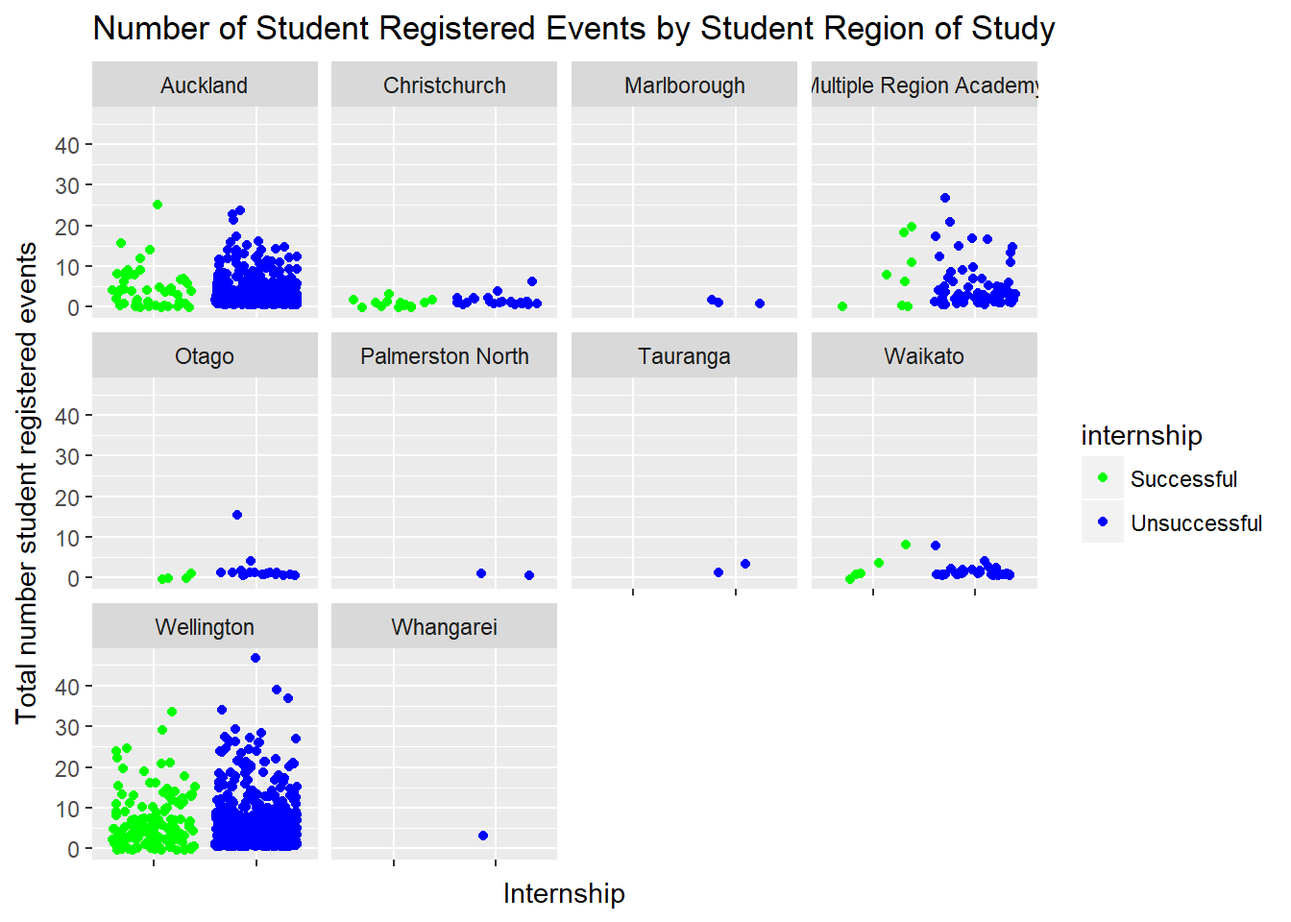
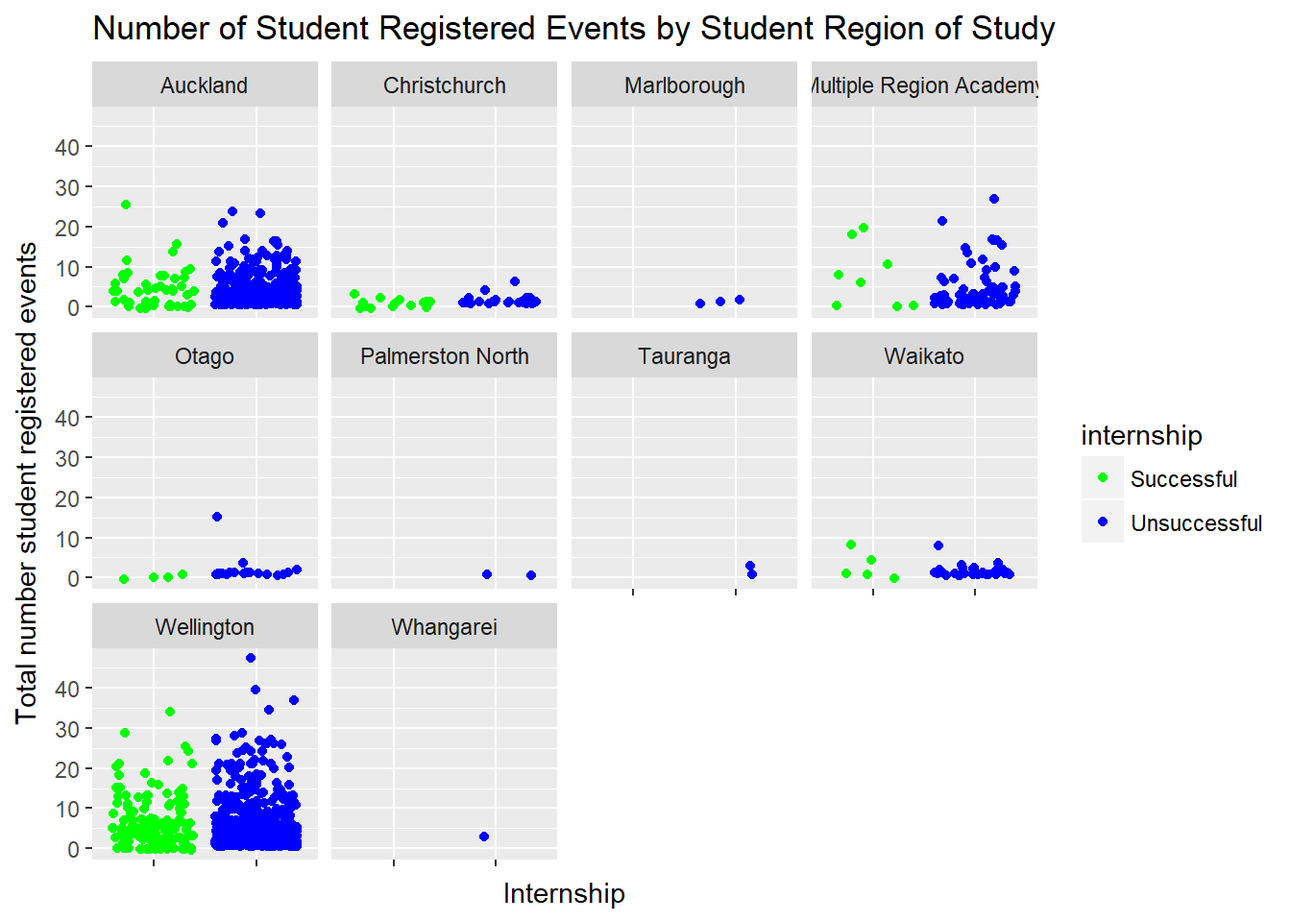
Update SoT post with code

diff --git a/portfolio/sot_dataviz/index.html b/portfolio/sot_dataviz/index.html
@@ -153,6 +153,10 @@ ga('send', 'pageview');
 <div id="section" class="section level3">
 <h3></h3>
 <hr />
+<pre class="r"><code>library(tidyverse)
+library(DataExplorer)
+library(skimr)
+library(networkD3)</code></pre>
 </div>
 </div>
 <div id="data" class="section level2">
@@ -168,6 +172,24 @@ ga('send', 'pageview');
 </li>
 <li>“Intern data Dec 2017.csv” includes student details and internship details</li>
 </ul>
+<pre class="r"><code># Import the &quot;2017 event detail report.csv&quot; 
+eventdetail &lt;- read_csv(&quot;https://raw.githubusercontent.com/R-LadiesAKL/sotdata/master/2017%20event%20detail%20report.csv&quot;)
+# Import the &quot;Event attendances data Dec 2017.csv&quot;
+event &lt;- read_csv(&quot;https://raw.githubusercontent.com/R-LadiesAKL/sotdata/master/Event%20attendances%20data%20Dec%202017.csv&quot;)
+# Import the intern data &quot;Intern data Dec 2017.csv&quot;
+intern &lt;- read_csv(&quot;https://raw.githubusercontent.com/R-LadiesAKL/sotdata/master/Intern%20data%20Dec%202017.csv&quot;)
+#  Only select the first 214 rows, the rest are N/A
+intern &lt;- intern[1:214,]
+# Import the &quot;Institution to region mapper.csv&quot;
+mapper &lt;- read_csv(&quot;https://raw.githubusercontent.com/R-LadiesAKL/sotdata/master/Institution%20to%20region%20mapper.csv&quot;)
+# Import the &quot;2017 interns per employer.csv&quot;
+internemployer &lt;- read_csv(&quot;https://raw.githubusercontent.com/R-LadiesAKL/sotdata/master/2017%20interns%20per%20employer.csv&quot;)</code></pre>
+<pre class="r"><code>#  We will use the make.names base R function to make syntactically valid names of the column variables for further analysis and output in R Markdown. For these names, it adds a &quot;.&quot; to the spaces in the names
+names(eventdetail) &lt;- make.names(names(eventdetail))
+#  Make Syntactically Valid Names of the eventdetail 
+names(event) &lt;- make.names(names(event))
+#  Make Syntactically Valid Names of the intern
+names(intern) &lt;- make.names(names(intern))</code></pre>
 <p><strong>Summarise the the data in numbers:</strong></p>
 <ul>
 <li><p>From the event attendances data, there are <strong>1381</strong> students from <strong>34</strong> institutions, studying <strong>886</strong> different qualifications, who express interest in the events.</p></li>
@@ -181,6 +203,11 @@ ga('send', 'pageview');
 <p>We will first clean the data.</p>
 <p><strong>Duplicates</strong></p>
 <p>From the summary statistics there appears to be a student who has two internships? Let’s view and remove the duplicate token.</p>
+<pre class="r"><code>#  Check which internship with the duplicated token ID
+intern %&gt;% 
+      filter(token==intern$token[duplicated(intern$token)]) %&gt;% 
+      kableExtra::kable() %&gt;%
+      kableExtra::kable_styling()</code></pre>
 <table class="table" style="margin-left: auto; margin-right: auto;">
 <thead>
 <tr>
@@ -301,15 +328,56 @@ year
 </tr>
 </tbody>
 </table>
+<pre class="r"><code># Remove the duplicate token by identifying the row number with the duplicate and then using dplyr&#39;s slice function
+intern &lt;- intern %&gt;% 
+      slice(-which(duplicated(intern$token)))</code></pre>
 <p>There is one event that also appears in the event detail called Health and Safety with no registered attendees which may be a duplicate of another Health and Safety event.</p>
 <p><strong>Add successful intern flag</strong></p>
 <p>Add a variable to the intern data to identify successful internship students after joining with the event data.</p>
+<pre class="r"><code># Add a variable to the intern data to identify successful internship students after merged with the event data
+intern &lt;- intern %&gt;% 
+      mutate(internship=&quot;Successful&quot;)</code></pre>
 <p><strong>Rename column variables</strong></p>
 <p>Let’s rename some of the column variables to be able to track which dataset set they came from.</p>
+<pre class="r"><code># Rename column variables
+intern &lt;- intern %&gt;% 
+      # Rename the intern Region to intern.region
+      rename_at(vars(&#39;Region&#39;), ~ &#39;Intern.region&#39;) %&gt;% 
+      # Rename the intern institution to intern.institution
+      rename_at(vars(&#39;Institution&#39;), ~ &#39;Intern.institution&#39;) %&gt;% 
+      # Rename the intern Year of study to Intern.year.of.study
+      rename_at(vars(&#39;Year.of.study&#39;), ~ &#39;Intern.year.of.study&#39;)
+event &lt;- event %&gt;% 
+       # Rename the Student token variable in event to token so that this is the same as the intern variable name.
+      rename_at(vars(&#39;Student.token&#39;), ~ &#39;token&#39;) %&gt;% 
+      # Rename the region institution to region.institution
+      rename_at(vars(&#39;Institution&#39;), ~ &#39;Event.institution&#39;) 
+eventdetail &lt;- eventdetail %&gt;% 
+       # Rename the eventdetail Name variable in event to Event.name 
+      rename_at(vars(&#39;Name&#39;), ~ &#39;Event.name&#39;) %&gt;% 
+       # Rename the eventdetail Name variable in event to Event.name 
+      rename_at(vars(&#39;Location&#39;), ~ &#39;Event.region&#39;)</code></pre>
 <p><strong>Mapper update</strong></p>
 <p>Add a missing institution,“Toi Ohomai Institute of Technology”, to the region-institution mapper.</p>
+<pre class="r"><code># Add a missing institution to the mapper
+mapper &lt;- rbind(mapper,c(&quot;Toi Ohomai Institute of Technology&quot;,&quot;Multiple&quot;))</code></pre>
 <p><strong>Join files</strong></p>
 <p>Next Join the intern and event files by the common identifier, the student ID, “token”.</p>
+<pre class="r"><code># Join the intern and event by the common token variable
+combine &lt;- full_join(intern,event,by=&quot;token&quot;)
+# Replace the internship NA&#39;s to no. This will include event attendance states including late withdrawals
+combine$internship &lt;- replace_na(combine$internship,&quot;Unsuccessful&quot;)
+# Since some students attend multiple events, let&#39;s create a flag for attended events
+combine &lt;- combine %&gt;% 
+      mutate(registered.for.events=ifelse(is.na(Event.region),&quot;no&quot;,&quot;yes&quot;))
+# Create a new student institution variable from the Event and intern institution variables
+combine &lt;- combine %&gt;% 
+      mutate(Institution=ifelse(is.na(Event.institution),Intern.institution, Event.institution))
+# Map instititution to the region using the mapper 
+combine &lt;- combine %&gt;% 
+      left_join(mapper,by=&quot;Institution&quot;) %&gt;% 
+      rename(Student.institution=Institution) %&gt;% 
+      rename(Student.region=Region)</code></pre>
 </div>
 <div id="success-factors" class="section level2">
 <h2>Success Factors</h2>
@@ -320,13 +388,64 @@ year
 <p>Then I tried the <a href="https://cran.r-project.org/web/packages/networkD3/index.html">networkD3</a> R package to create a D3 JavaScript Sankey diagram.</p>
 <p>I included a check that the total number of intern tokens in original file is same as sum in this summary after the join and also include a new “Student Institution” variable.</p>
 <p>See below the interactive Sankey diagram:</p>
+<pre class="r"><code># Create a summary of the counts of Event institutions by unique interns
+inst_intern_count &lt;- combine %&gt;%
+      distinct(Student.institution,internship,token) %&gt;%
+      group_by(Student.institution,internship) %&gt;%  
+      summarize(counts = n()) %&gt;%
+      ungroup() %&gt;%  
+      arrange(desc(counts))
+# Replace the Event NA&#39;s to Other
+inst_intern_count$Event.institution &lt;- replace_na(inst_intern_count$Student.institution,&quot;Other&quot;)
+# Since there is a large number of institutions, Group the institutions with count less than 10 as Other
+l &lt;- length(inst_intern_count$counts)
+inst_intern_count$Student.institution[15:l] &lt;- &quot;Other&quot;
+# Check that the total intern tokens in original file is same as sum in this summary
+length(unique(intern$token))==
+inst_intern_count %&gt;% filter(internship==&quot;Successful&quot;) %&gt;% select(counts) %&gt;% sum()</code></pre>
 <p>[1] TRUE</p>
+<pre class="r"><code># Create the links and nodes for the Sankey and force network diagrams
+name_vec &lt;- c(unique(inst_intern_count$Student.institution), unique(inst_intern_count$internship))
+name_vec &lt;- name_vec[!is.na(name_vec)]
+lengthid &lt;- length(name_vec)
+nodes &lt;- data.frame(name = name_vec,id=0:(lengthid-1),stringsAsFactors = FALSE)
+links &lt;- inst_intern_count %&gt;%
+  left_join(nodes, by = c(&#39;Student.institution&#39; = &#39;name&#39;)) %&gt;%
+  rename(origin_id = id) %&gt;%
+  left_join(nodes, by = c(&#39;internship&#39; = &#39;name&#39;)) %&gt;%
+  rename(dest_id = id) %&gt;% 
+      data.frame()</code></pre>
+<pre class="r"><code>sankeyNetwork(Links = links, Nodes = nodes, Source = &#39;origin_id&#39;, Target = &#39;dest_id&#39;, Value = &#39;counts&#39;, NodeID = &#39;name&#39;, 
+              # Format
+              fontSize = 14,
+              nodeWidth = 20)   </code></pre>
 <div id="htmlwidget-1" style="width:672px;height:480px;" class="sankeyNetwork html-widget"></div>
 <script type="application/json" data-for="htmlwidget-1">{"x":{"links":{"source":[0,1,0,2,3,4,5,1,6,7,8,9,10,11,12,12,12,12,12,12,12,12,12,12,12,12,12,12,12,12,12,12,12,12,12,12,12,12,12,12,12,12,12,12,12,12,12,12,12,12,12,12],"target":[13,13,14,13,13,13,13,14,13,13,13,13,13,13,13,14,13,14,13,14,13,13,13,13,14,14,14,14,13,13,14,14,13,13,14,13,13,13,13,14,13,13,14,13,14,13,14,13,13,13,14,14],"value":[461,312,108,68,58,50,48,39,25,25,24,22,17,16,16,15,15,14,7,6,5,5,5,5,4,4,4,4,3,3,3,3,3,2,2,2,2,2,2,2,2,1,1,1,1,1,1,1,1,1,1,1]},"nodes":{"name":["Victoria University of Wellington","Auckland University","Auckland University of Technology","Whitireia New Zealand","Wellington Institute of Technology (Weltec)","Massey University (Wellington)","Unitec Institute of Technology","Yoobee School of Design","University of Canterbury","Enspiral Dev Academy","University of Otago","Computer Power Plus","Other","Unsuccessful","Successful"],"group":["Victoria University of Wellington","Auckland University","Auckland University of Technology","Whitireia New Zealand","Wellington Institute of Technology (Weltec)","Massey University (Wellington)","Unitec Institute of Technology","Yoobee School of Design","University of Canterbury","Enspiral Dev Academy","University of Otago","Computer Power Plus","Other","Unsuccessful","Successful"]},"options":{"NodeID":"name","NodeGroup":"name","LinkGroup":null,"colourScale":"d3.scaleOrdinal(d3.schemeCategory20);","fontSize":14,"fontFamily":null,"nodeWidth":20,"nodePadding":10,"units":"","margin":{"top":null,"right":null,"bottom":null,"left":null},"iterations":32,"sinksRight":true}},"evals":[],"jsHooks":[]}</script>
+<pre class="r"><code># Use this to save the plot as html
+# saveNetwork(file = &#39;sankey.html&#39;)</code></pre>
 <p>Let’s view this with an interactive and zoom-able force directed network graph using the forceNetwork function from the same <a href="https://cran.r-project.org/web/packages/networkD3/index.html">networkD3</a> R package.</p>
+<pre class="r"><code># Create and plot the forcenetwork with the links and nodes
+forceNetwork(Links = links, Nodes = nodes, Source = &#39;origin_id&#39;, Target = &#39;dest_id&#39;, NodeID = &#39;name&#39;, Group = &#39;id&#39;, 
+             # Customise the edges
+             Value = &#39;counts&#39;, 
+             # Layout
+             #height = 500, 
+             #width = 500, 
+             zoom = TRUE,
+             # Customise the links
+             linkWidth = networkD3::JS(&quot;function(d) { return d.value/50; }&quot;),
+             charge=-1500,
+             # Format
+             fontFamily = &quot;serif&quot;,
+             opacity = 0.95, 
+             opacityNoHover = 0.5,
+             fontSize = 18) %&gt;% 
+      htmlwidgets::prependContent(htmltools::tags$h3(&quot;Institution Links to Successful and Unsuccessful Internships&quot;))  </code></pre>
 <h3>Institution Links to Successful and Unsuccessful Internships</h3>
 <div id="htmlwidget-2" style="width:672px;height:480px;" class="forceNetwork html-widget"></div>
 <script type="application/json" data-for="htmlwidget-2">{"x":{"links":{"source":[0,1,0,2,3,4,5,1,6,7,8,9,10,11,12,12,12,12,12,12,12,12,12,12,12,12,12,12,12,12,12,12,12,12,12,12,12,12,12,12,12,12,12,12,12,12,12,12,12,12,12,12],"target":[13,13,14,13,13,13,13,14,13,13,13,13,13,13,13,14,13,14,13,14,13,13,13,13,14,14,14,14,13,13,14,14,13,13,14,13,13,13,13,14,13,13,14,13,14,13,14,13,13,13,14,14],"value":[461,312,108,68,58,50,48,39,25,25,24,22,17,16,16,15,15,14,7,6,5,5,5,5,4,4,4,4,3,3,3,3,3,2,2,2,2,2,2,2,2,1,1,1,1,1,1,1,1,1,1,1],"colour":["#666","#666","#666","#666","#666","#666","#666","#666","#666","#666","#666","#666","#666","#666","#666","#666","#666","#666","#666","#666","#666","#666","#666","#666","#666","#666","#666","#666","#666","#666","#666","#666","#666","#666","#666","#666","#666","#666","#666","#666","#666","#666","#666","#666","#666","#666","#666","#666","#666","#666","#666","#666"]},"nodes":{"name":["Victoria University of Wellington","Auckland University","Auckland University of Technology","Whitireia New Zealand","Wellington Institute of Technology (Weltec)","Massey University (Wellington)","Unitec Institute of Technology","Yoobee School of Design","University of Canterbury","Enspiral Dev Academy","University of Otago","Computer Power Plus","Other","Unsuccessful","Successful"],"group":[0,1,2,3,4,5,6,7,8,9,10,11,12,13,14]},"options":{"NodeID":"name","Group":"id","colourScale":"d3.scaleOrdinal(d3.schemeCategory20);","fontSize":18,"fontFamily":"serif","clickTextSize":45,"linkDistance":50,"linkWidth":"function(d) { return d.value/50; }","charge":-1500,"opacity":0.95,"zoom":true,"legend":false,"arrows":false,"nodesize":false,"radiusCalculation":" Math.sqrt(d.nodesize)+6","bounded":false,"opacityNoHover":0.5,"clickAction":null}},"evals":[],"jsHooks":[]}</script>
+<pre class="r"><code># Use this to save the plot as html
+# saveNetwork(file =  &#39;forcediag.html&#39;)</code></pre>
 <p>The two main Institution feeders appear to be Victoria University of Wellington and Auckland University, the former resulting in half of internships.</p>
 </div>
 <div id="specific-events-resulting-in-internships" class="section level2">
@@ -337,32 +456,119 @@ year
 <p><strong>Event Counts by Student Token</strong></p>
 <p>In order to arrange the data such that there is one token id by row, to summarise this one to many relationship, I have summarised the event counts as a wide data set, with column variables by region. This dataframe also has the internship variable as “Successful” or “Unsuccessful”. We can then look at whether total event attendance is a factor.</p>
 <p>After creating the new dataframe, check that there are the same number of successful interns in this new dataset as the original intern data.</p>
+<pre class="r"><code># Create a new summary dataframe of the event counts by student.
+eventcountbystudent  &lt;- combine %&gt;%     
+      select(token,internship,registered.for.events,Event.region,Student.region) %&gt;% 
+      group_by(token,internship,registered.for.events,Event.region,Student.region) %&gt;% 
+      mutate(event.count=n()) %&gt;% 
+      distinct()  %&gt;% 
+      ungroup()
+# Now create a wide dataset with the spread function
+eventcountbystudent_wide &lt;- eventcountbystudent %&gt;% 
+      spread(Event.region,event.count) %&gt;% 
+      rename(DirectApp=&#39;&lt;NA&gt;&#39;)  %&gt;% 
+      # Replace the NAs with 0 for this plot
+      mutate_at(vars(Auckland,Wellington,Christchurch,Dunedin,Hamilton,DirectApp), funs(replace(., is.na(.), 0))) %&gt;% 
+      # Add a total events variable
+      mutate(TotEvents = Auckland+Wellington+Christchurch+Dunedin+Hamilton)
+# Check that there are the same number of successful interns as the original intern data
+table(eventcountbystudent_wide$internship)[1]==length(unique(intern$token))</code></pre>
 <pre><code>## Successful 
 ##       TRUE</code></pre>
 <p><strong>Total registered events by student token</strong></p>
 <p>Of the <strong>213</strong> successful interns, <strong>43</strong> applied directly and did not attend any events. Let’s first take a look the balance who registered for events. The total event registration by internship success is plotted as a violin plot which is a mirrored density plot. A boxplot is layered on top to show the quantiles. We use registration as in indication of interest in interships, as actual attendance may be dependent on other external factors.</p>
+<pre class="r"><code># plot violin plot with boxploit layer
+eventcountbystudent_wide  %&gt;% 
+      ggplot() +
+      geom_violin(aes(internship,TotEvents),fill=&quot;purple&quot;) +
+      geom_boxplot(aes(internship,TotEvents),alpha=0.3) +
+      theme_bw() +
+      ggtitle(&quot;Distribution of Registered Events Count and Internship&quot;) +
+      xlab(&quot;Internship&quot;) +
+      ylab(&quot;Count of registered events (All Regions)&quot;)</code></pre>
 <p><img src="/portfolio/SoT_dataviz_files/figure-html/violin%20plot-1.png" width="672" /></p>
 <p>Overall, it appears from the quantile box that successful interns registered to attend more events. However there are some outliers of unsuccessful students who registered for a very large number events, the maximum number is <strong>47</strong> by one student. The greater spread at the bottom of the unsuccessful students indicates more unsuccessful students registered for fewer events than the successful interns.</p>
 <p><strong>Registration count by student region</strong></p>
 <p>Next we will break down and plot the total registered events by the region in which the student studies.</p>
 <p>This plot uses a jitter effect to add random variation to disperse the plotted points.</p>
+<pre class="r"><code># Rename the Multiple Student region to Multiple region Academy
+eventcountbystudent_wide    %&gt;%    
+# Replace the NAs with 0 for this plot
+      mutate_at(vars(Auckland,Wellington,Christchurch,Dunedin,Hamilton,DirectApp), funs(replace(., is.na(.), 0))) %&gt;% 
+      # Add a total events variable
+      mutate(TotEvents = Auckland+Wellington+Christchurch+Dunedin+Hamilton) %&gt;% 
+      mutate_at(vars(Student.region),funs(replace(.,.== &quot;Multiple&quot;,&quot;Multiple Region Academy&quot;))) %&gt;%  
+      ggplot() +
+      geom_jitter(aes(internship,TotEvents,colour=internship))+
+      xlab(&quot;Internship&quot;)+
+      ylab(&quot;Total number student registered events&quot;)+
+      ggtitle(&quot;Number of Student Registered Events by Student Region of Study&quot;) +
+      theme(axis.text.x=element_blank()) +
+      scale_color_manual(values=c(&quot;green&quot;, &quot;blue&quot;))+
+      facet_wrap(~Student.region)      </code></pre>
 <p><img src="/portfolio/SoT_dataviz_files/figure-html/count%20by%20region-1.png" width="672" /></p>
 <p>Students from outside the major centres are very low in numbers in registering and relatively unsuccessful in interships.</p>
 <p><strong>Decision Tree</strong></p>
 <p>Instead of trying to visualise all the events, we can use a model to visualise as a decision tree what possible combination of events successful interns attended in 2017. We will use the <a href="https://cran.r-project.org/web/packages/rpart/index.html">rpart</a> R package to create a classification model and the <a href="https://cran.r-project.org/web/packages/rattle/index.html">rattle</a> R package which has a nice function, fancyRpartPlot, to plot the tree below.</p>
 <p>This is a very simple model which is not intended as a prediction model with measures of accuracy. However the reshaped data with events classified with 0 or 1, which is also called one hot encoding, could be leveraged to build predictive models.</p>
+<pre class="r"><code># Create a new summary dataframe of the event names by student.
+eventnamebystudent_wide  &lt;- combine %&gt;%     
+      select(token,internship,Student.region,Event.name) %&gt;% 
+      mutate(count=1) %&gt;% 
+      distinct() %&gt;% 
+      spread(Event.name,count)  %&gt;% 
+      # Replace the NAs with 0 for this plot
+      mutate_if(is.numeric, funs(replace(., is.na(.), 0)))
+# Convert the internship values with 0 and 1 for the model
+eventnamebystudent_wide&lt;- eventnamebystudent_wide %&gt;% 
+      mutate_at(vars(internship),funs(replace(.,.== &quot;Successful&quot;,1))) %&gt;% 
+      mutate_at(vars(internship),funs(replace(.,.== &quot;Unsuccessful&quot;,0))) %&gt;% 
+# Rename the NA variable which are the Students who did not attend any events
+      rename(NoEvents=&#39;&lt;NA&gt;&#39;)
+eventnamebystudent_wide$Student.region &lt;- as.factor(eventnamebystudent_wide$Student.region )
+eventnamebystudent_wide$internship &lt;- as.factor(eventnamebystudent_wide$internship)
+#http://blog.revolutionanalytics.com/2013/06/plotting-classification-and-regression-trees-with-plotrpart.html
+model &lt;- rpart::rpart(internship~.,data=eventnamebystudent_wide[,-c(1,3)], cp=0.001 ) # default cp is 0.01, decresing this value creates a deeper tree
+rattle::fancyRpartPlot(model, sub = &quot;Decision tree of events that result in successful (green) 2017 internships&quot;,palettes=c(&quot;Greys&quot;, &quot;Greens&quot;))</code></pre>
 <p><img src="/portfolio/SoT_dataviz_files/figure-html/rpart-1.png" width="672" /></p>
 <p>From this tree we can see the <strong>43</strong> successful interns who applied directly as a percentage of the total pool of applicants <strong>1424</strong> or <strong>0.03</strong> on the far right green branch.</p>
 <p>The remaining branches relate to <strong>170</strong> students who registered for events and their success in green. Note only the top branches are shown.</p>
 <p>Now compare the tree to the tree using the <a href="https://cran.r-project.org/web/packages/visNetwork/index.html">visNetwork</a> R package visTree function. This creates an interactive tree and produces the numbers in each node.</p>
+<pre class="r"><code># http://www.sthda.com/english/articles/33-social-network-analysis/137-interactive-network-visualization-using-r/
+visNetwork::visTree(model, main = &quot;Decision tree of events that result in successful (green) 2017 internships&quot;,
+        width = &quot;80%&quot;,  height = &quot;400px&quot;)</code></pre>
 <div id="htmlwidget-3" style="width:80%;height:400px;" class="visNetwork html-widget"></div>
 <script type="application/json" data-for="htmlwidget-3">{"x":{"nodes":{"id":[1,2,4,8,9,18,19,38,39,5,10,20,40,41,82,83,21,11,3],"label":["NoEvents","SoT&Biz Guide to Offers","Meet & Greet - WELLINGTON","0","Guide to 2017 Offers","0","Meet & Greet ProTips - Alumni Panel","0","1","CV Clinics 1:1 feedback","Inside Guide to Summer of Tech","JavaScript Masterclass","0","Coding for Android with Kotlin - let’s build a simple app in 90 minutes","0","1","1","1","1"],"level":[1,2,3,4,4,5,5,6,6,3,4,5,6,6,7,7,5,4,2],"color":["#F1B8C2","#EABDAC","#DAC49C","#7D91B6","#C3CB9A","#7D91B6","#A9D1A5","#7D91B6","#B9828C","#92D4B9","#8AD3D0","#98CFE2","#7D91B6","#B4C7ED","#7D91B6","#B9828C","#B9828C","#B9828C","#B9828C"],"value":[1424,1381,1313,1037,276,256,20,12,8,68,60,53,12,41,33,8,7,8,43],"shape":["dot","dot","dot","square","dot","square","dot","square","square","dot","dot","dot","square","dot","square","square","square","square","square"],"title":["<div style=\"text-align:center;\">N% : <b>100%<\/b> (1424)<br>Complexity : <b>0.202<\/b><br><hr> 0 : <b>85%<\/b> (1211)<br>1 : <b>15%<\/b> (213)<\/div>","<div style=\"text-align:center;\">N% : <b>97%<\/b> (1381)<br>Complexity : <b>0.014<\/b><br><hr> 0 : <b>87.7%<\/b> (1211)<br>1 : <b>12.3%<\/b> (170)<hr class=\"rPartvisNetwork\"><div class=\"rPartvisNetworkTooltipShowhim\" style=\"color:blue;\">\n          <U>RULES<\/U><div class=\"rPartvisNetworkTooltipShowme\" style=\"color:black;\"><b> NoEvents <\/b> < 0.5<\/div><\/div><\/div>","<div style=\"text-align:center;\">N% : <b>92.2%<\/b> (1313)<br>Complexity : <b>0.003<\/b><br><hr> 0 : <b>89.6%<\/b> (1177)<br>1 : <b>10.4%<\/b> (136)<hr class=\"rPartvisNetwork\"><div class=\"rPartvisNetworkTooltipShowhim\" style=\"color:blue;\">\n          <U>RULES<\/U><div class=\"rPartvisNetworkTooltipShowme\" style=\"color:black;\"><b> NoEvents <\/b> < 0.5<br><b> SoT&Biz Guide to Offers <\/b> < 0.5<\/div><\/div><\/div>","<div style=\"text-align:center;\">N% : <b>72.8%<\/b> (1037)<br>Complexity : <b>0<\/b><br><hr> 0 : <b>91.9%<\/b> (953)<br>1 : <b>8.1%<\/b> (84)<hr class=\"rPartvisNetwork\"><div class=\"rPartvisNetworkTooltipShowhim\" style=\"color:blue;\">\n          <U>RULES<\/U><div class=\"rPartvisNetworkTooltipShowme\" style=\"color:black;\"><b> NoEvents <\/b> < 0.5<br><b> SoT&Biz Guide to Offers <\/b> < 0.5<br><b> Meet & Greet - WELLINGTON <\/b> < 0.5<\/div><\/div><\/div>","<div style=\"text-align:center;\">N% : <b>19.4%<\/b> (276)<br>Complexity : <b>0.003<\/b><br><hr> 0 : <b>81.2%<\/b> (224)<br>1 : <b>18.8%<\/b> (52)<hr class=\"rPartvisNetwork\"><div class=\"rPartvisNetworkTooltipShowhim\" style=\"color:blue;\">\n          <U>RULES<\/U><div class=\"rPartvisNetworkTooltipShowme\" style=\"color:black;\"><b> NoEvents <\/b> < 0.5<br><b> SoT&Biz Guide to Offers <\/b> < 0.5<br><b> Meet & Greet - WELLINGTON <\/b> >= 0.5<\/div><\/div><\/div>","<div style=\"text-align:center;\">N% : <b>18%<\/b> (256)<br>Complexity : <b>0<\/b><br><hr> 0 : <b>83.2%<\/b> (213)<br>1 : <b>16.8%<\/b> (43)<hr class=\"rPartvisNetwork\"><div class=\"rPartvisNetworkTooltipShowhim\" style=\"color:blue;\">\n          <U>RULES<\/U><div class=\"rPartvisNetworkTooltipShowme\" style=\"color:black;\"><b> NoEvents <\/b> < 0.5<br><b> SoT&Biz Guide to Offers <\/b> < 0.5<br><b> Meet & Greet - WELLINGTON <\/b> >= 0.5<br><b> Guide to 2017 Offers <\/b> < 0.5<\/div><\/div><\/div>","<div style=\"text-align:center;\">N% : <b>1.4%<\/b> (20)<br>Complexity : <b>0.003<\/b><br><hr> 0 : <b>55%<\/b> (11)<br>1 : <b>45%<\/b> (9)<hr class=\"rPartvisNetwork\"><div class=\"rPartvisNetworkTooltipShowhim\" style=\"color:blue;\">\n          <U>RULES<\/U><div class=\"rPartvisNetworkTooltipShowme\" style=\"color:black;\"><b> NoEvents <\/b> < 0.5<br><b> SoT&Biz Guide to Offers <\/b> < 0.5<br><b> Meet & Greet - WELLINGTON <\/b> >= 0.5<br><b> Guide to 2017 Offers <\/b> >= 0.5<\/div><\/div><\/div>","<div style=\"text-align:center;\">N% : <b>0.8%<\/b> (12)<br>Complexity : <b>0.001<\/b><br><hr> 0 : <b>66.7%<\/b> (8)<br>1 : <b>33.3%<\/b> (4)<hr class=\"rPartvisNetwork\"><div class=\"rPartvisNetworkTooltipShowhim\" style=\"color:blue;\">\n          <U>RULES<\/U><div class=\"rPartvisNetworkTooltipShowme\" style=\"color:black;\"><b> NoEvents <\/b> < 0.5<br><b> SoT&Biz Guide to Offers <\/b> < 0.5<br><b> Meet & Greet - WELLINGTON <\/b> >= 0.5<br><b> Guide to 2017 Offers <\/b> >= 0.5<br><b> Meet & Greet ProTips - Alumni Panel <\/b> >= 0.5<\/div><\/div><\/div>","<div style=\"text-align:center;\">N% : <b>0.6%<\/b> (8)<br>Complexity : <b>0.001<\/b><br><hr> 0 : <b>37.5%<\/b> (3)<br>1 : <b>62.5%<\/b> (5)<hr class=\"rPartvisNetwork\"><div class=\"rPartvisNetworkTooltipShowhim\" style=\"color:blue;\">\n          <U>RULES<\/U><div class=\"rPartvisNetworkTooltipShowme\" style=\"color:black;\"><b> NoEvents <\/b> < 0.5<br><b> SoT&Biz Guide to Offers <\/b> < 0.5<br><b> Meet & Greet - WELLINGTON <\/b> >= 0.5<br><b> Guide to 2017 Offers <\/b> >= 0.5<br><b> Meet & Greet ProTips - Alumni Panel <\/b> < 0.5<\/div><\/div><\/div>","<div style=\"text-align:center;\">N% : <b>4.8%<\/b> (68)<br>Complexity : <b>0.014<\/b><br><hr> 0 : <b>50%<\/b> (34)<br>1 : <b>50%<\/b> (34)<hr class=\"rPartvisNetwork\"><div class=\"rPartvisNetworkTooltipShowhim\" style=\"color:blue;\">\n          <U>RULES<\/U><div class=\"rPartvisNetworkTooltipShowme\" style=\"color:black;\"><b> NoEvents <\/b> < 0.5<br><b> SoT&Biz Guide to Offers <\/b> >= 0.5<\/div><\/div><\/div>","<div style=\"text-align:center;\">N% : <b>4.2%<\/b> (60)<br>Complexity : <b>0.014<\/b><br><hr> 0 : <b>55%<\/b> (33)<br>1 : <b>45%<\/b> (27)<hr class=\"rPartvisNetwork\"><div class=\"rPartvisNetworkTooltipShowhim\" style=\"color:blue;\">\n          <U>RULES<\/U><div class=\"rPartvisNetworkTooltipShowme\" style=\"color:black;\"><b> NoEvents <\/b> < 0.5<br><b> SoT&Biz Guide to Offers <\/b> >= 0.5<br><b> CV Clinics 1:1 feedback <\/b> < 0.5<\/div><\/div><\/div>","<div style=\"text-align:center;\">N% : <b>3.7%<\/b> (53)<br>Complexity : <b>0.009<\/b><br><hr> 0 : <b>58.5%<\/b> (31)<br>1 : <b>41.5%<\/b> (22)<hr class=\"rPartvisNetwork\"><div class=\"rPartvisNetworkTooltipShowhim\" style=\"color:blue;\">\n          <U>RULES<\/U><div class=\"rPartvisNetworkTooltipShowme\" style=\"color:black;\"><b> NoEvents <\/b> < 0.5<br><b> SoT&Biz Guide to Offers <\/b> >= 0.5<br><b> CV Clinics 1:1 feedback <\/b> < 0.5<br><b> Inside Guide to Summer of Tech <\/b> < 0.5<\/div><\/div><\/div>","<div style=\"text-align:center;\">N% : <b>0.8%<\/b> (12)<br>Complexity : <b>0.001<\/b><br><hr> 0 : <b>83.3%<\/b> (10)<br>1 : <b>16.7%<\/b> (2)<hr class=\"rPartvisNetwork\"><div class=\"rPartvisNetworkTooltipShowhim\" style=\"color:blue;\">\n          <U>RULES<\/U><div class=\"rPartvisNetworkTooltipShowme\" style=\"color:black;\"><b> NoEvents <\/b> < 0.5<br><b> SoT&Biz Guide to Offers <\/b> >= 0.5<br><b> CV Clinics 1:1 feedback <\/b> < 0.5<br><b> Inside Guide to Summer of Tech <\/b> < 0.5<br><b> JavaScript Masterclass <\/b> >= 0.5<\/div><\/div><\/div>","<div style=\"text-align:center;\">N% : <b>2.9%<\/b> (41)<br>Complexity : <b>0.009<\/b><br><hr> 0 : <b>51.2%<\/b> (21)<br>1 : <b>48.8%<\/b> (20)<hr class=\"rPartvisNetwork\"><div class=\"rPartvisNetworkTooltipShowhim\" style=\"color:blue;\">\n          <U>RULES<\/U><div class=\"rPartvisNetworkTooltipShowme\" style=\"color:black;\"><b> NoEvents <\/b> < 0.5<br><b> SoT&Biz Guide to Offers <\/b> >= 0.5<br><b> CV Clinics 1:1 feedback <\/b> < 0.5<br><b> Inside Guide to Summer of Tech <\/b> < 0.5<br><b> JavaScript Masterclass <\/b> < 0.5<\/div><\/div><\/div>","<div style=\"text-align:center;\">N% : <b>2.3%<\/b> (33)<br>Complexity : <b>0<\/b><br><hr> 0 : <b>57.6%<\/b> (19)<br>1 : <b>42.4%<\/b> (14)<hr class=\"rPartvisNetwork\"><div class=\"rPartvisNetworkTooltipShowhim\" style=\"color:blue;\">\n          <U>RULES<\/U><div class=\"rPartvisNetworkTooltipShowme\" style=\"color:black;\"><b> NoEvents <\/b> < 0.5<br><b> SoT&Biz Guide to Offers <\/b> >= 0.5<br><b> CV Clinics 1:1 feedback <\/b> < 0.5<br><b> Inside Guide to Summer of Tech <\/b> < 0.5<br><b> JavaScript Masterclass <\/b> < 0.5<br><b> Coding for Android with Kotlin - let’s build a simple app in 90 minutes <\/b> < 0.5<\/div><\/div><\/div>","<div style=\"text-align:center;\">N% : <b>0.6%<\/b> (8)<br>Complexity : <b>0.001<\/b><br><hr> 0 : <b>25%<\/b> (2)<br>1 : <b>75%<\/b> (6)<hr class=\"rPartvisNetwork\"><div class=\"rPartvisNetworkTooltipShowhim\" style=\"color:blue;\">\n          <U>RULES<\/U><div class=\"rPartvisNetworkTooltipShowme\" style=\"color:black;\"><b> NoEvents <\/b> < 0.5<br><b> SoT&Biz Guide to Offers <\/b> >= 0.5<br><b> CV Clinics 1:1 feedback <\/b> < 0.5<br><b> Inside Guide to Summer of Tech <\/b> < 0.5<br><b> JavaScript Masterclass <\/b> < 0.5<br><b> Coding for Android with Kotlin - let’s build a simple app in 90 minutes <\/b> >= 0.5<\/div><\/div><\/div>","<div style=\"text-align:center;\">N% : <b>0.5%<\/b> (7)<br>Complexity : <b>0.001<\/b><br><hr> 0 : <b>28.6%<\/b> (2)<br>1 : <b>71.4%<\/b> (5)<hr class=\"rPartvisNetwork\"><div class=\"rPartvisNetworkTooltipShowhim\" style=\"color:blue;\">\n          <U>RULES<\/U><div class=\"rPartvisNetworkTooltipShowme\" style=\"color:black;\"><b> NoEvents <\/b> < 0.5<br><b> SoT&Biz Guide to Offers <\/b> >= 0.5<br><b> CV Clinics 1:1 feedback <\/b> < 0.5<br><b> Inside Guide to Summer of Tech <\/b> >= 0.5<\/div><\/div><\/div>","<div style=\"text-align:center;\">N% : <b>0.6%<\/b> (8)<br>Complexity : <b>0.001<\/b><br><hr> 0 : <b>12.5%<\/b> (1)<br>1 : <b>87.5%<\/b> (7)<hr class=\"rPartvisNetwork\"><div class=\"rPartvisNetworkTooltipShowhim\" style=\"color:blue;\">\n          <U>RULES<\/U><div class=\"rPartvisNetworkTooltipShowme\" style=\"color:black;\"><b> NoEvents <\/b> < 0.5<br><b> SoT&Biz Guide to Offers <\/b> >= 0.5<br><b> CV Clinics 1:1 feedback <\/b> >= 0.5<\/div><\/div><\/div>","<div style=\"text-align:center;\">N% : <b>3%<\/b> (43)<br>Complexity : <b>0.001<\/b><br><hr> 0 : <b>0%<\/b> (0)<br>1 : <b>100%<\/b> (43)<hr class=\"rPartvisNetwork\"><div class=\"rPartvisNetworkTooltipShowhim\" style=\"color:blue;\">\n          <U>RULES<\/U><div class=\"rPartvisNetworkTooltipShowme\" style=\"color:black;\"><b> NoEvents <\/b> >= 0.5<\/div><\/div><\/div>"],"fixed":[true,true,true,true,true,true,true,true,true,true,true,true,true,true,true,true,true,true,true],"colorClust":["#7D91B6","#7D91B6","#7D91B6","#7D91B6","#7D91B6","#7D91B6","#7D91B6","#7D91B6","#B9828C","#7D91B6","#7D91B6","#7D91B6","#7D91B6","#7D91B6","#7D91B6","#B9828C","#B9828C","#B9828C","#B9828C"],"labelClust":["0","0","0","0","0","0","0","0","1","0","0","0","0","0","0","1","1","1","1"],"Leaf":[0,0,0,1,0,1,0,1,1,0,0,0,1,0,1,1,1,1,1],"font.size":[16,16,16,16,16,16,16,16,16,16,16,16,16,16,16,16,16,16,16],"scaling.min":[22.5,22.5,22.5,22.5,22.5,22.5,22.5,22.5,22.5,22.5,22.5,22.5,22.5,22.5,22.5,22.5,22.5,22.5,22.5],"scaling.max":[22.5,22.5,22.5,22.5,22.5,22.5,22.5,22.5,22.5,22.5,22.5,22.5,22.5,22.5,22.5,22.5,22.5,22.5,22.5]},"edges":{"id":["edge1","edge2","edge3","edge4","edge5","edge6","edge7","edge8","edge9","edge10","edge11","edge12","edge13","edge14","edge15","edge16","edge17","edge18"],"from":[1,2,4,4,9,9,19,19,2,5,10,20,20,41,41,10,5,1],"to":[2,4,8,9,18,19,38,39,5,10,20,40,41,82,83,21,11,3],"label":["< 0.5","< 0.5","< 0.5",">= 0.5","< 0.5",">= 0.5",">= 0.5","< 0.5",">= 0.5","< 0.5","< 0.5",">= 0.5","< 0.5","< 0.5",">= 0.5",">= 0.5",">= 0.5",">= 0.5"],"value":[1381,1313,1037,276,256,20,12,8,68,60,53,12,41,33,8,7,8,43],"title":["<div style=\"text-align:center;\"><b>NoEvents<\/b><\/div><div style=\"text-align:center;\"><0.5<\/div>","<div style=\"text-align:center;\"><b>SoT&Biz Guide to Offers<\/b><\/div><div style=\"text-align:center;\"><0.5<\/div>","<div style=\"text-align:center;\"><b>Meet & Greet - WELLINGTON<\/b><\/div><div style=\"text-align:center;\"><0.5<\/div>","<div style=\"text-align:center;\"><b>Meet & Greet - WELLINGTON<\/b><\/div><div style=\"text-align:center;\">>=0.5<\/div>","<div style=\"text-align:center;\"><b>Guide to 2017 Offers<\/b><\/div><div style=\"text-align:center;\"><0.5<\/div>","<div style=\"text-align:center;\"><b>Guide to 2017 Offers<\/b><\/div><div style=\"text-align:center;\">>=0.5<\/div>","<div style=\"text-align:center;\"><b>Meet & Greet ProTips - Alumni Panel<\/b><\/div><div style=\"text-align:center;\">>=0.5<\/div>","<div style=\"text-align:center;\"><b>Meet & Greet ProTips - Alumni Panel<\/b><\/div><div style=\"text-align:center;\"><0.5<\/div>","<div style=\"text-align:center;\"><b>SoT&Biz Guide to Offers<\/b><\/div><div style=\"text-align:center;\">>=0.5<\/div>","<div style=\"text-align:center;\"><b>CV Clinics 1:1 feedback<\/b><\/div><div style=\"text-align:center;\"><0.5<\/div>","<div style=\"text-align:center;\"><b>Inside Guide to Summer of Tech<\/b><\/div><div style=\"text-align:center;\"><0.5<\/div>","<div style=\"text-align:center;\"><b>JavaScript Masterclass<\/b><\/div><div style=\"text-align:center;\">>=0.5<\/div>","<div style=\"text-align:center;\"><b>JavaScript Masterclass<\/b><\/div><div style=\"text-align:center;\"><0.5<\/div>","<div style=\"text-align:center;\"><b>Coding for Android with Kotlin - let’s build a simple app in 90 minutes<\/b><\/div><div style=\"text-align:center;\"><0.5<\/div>","<div style=\"text-align:center;\"><b>Coding for Android with Kotlin - let’s build a simple app in 90 minutes<\/b><\/div><div style=\"text-align:center;\">>=0.5<\/div>","<div style=\"text-align:center;\"><b>Inside Guide to Summer of Tech<\/b><\/div><div style=\"text-align:center;\">>=0.5<\/div>","<div style=\"text-align:center;\"><b>CV Clinics 1:1 feedback<\/b><\/div><div style=\"text-align:center;\">>=0.5<\/div>","<div style=\"text-align:center;\"><b>NoEvents<\/b><\/div><div style=\"text-align:center;\">>=0.5<\/div>"],"color":["#8181F7","#8181F7","#8181F7","#8181F7","#8181F7","#8181F7","#8181F7","#8181F7","#8181F7","#8181F7","#8181F7","#8181F7","#8181F7","#8181F7","#8181F7","#8181F7","#8181F7","#8181F7"],"font.size":[14,14,14,14,14,14,14,14,14,14,14,14,14,14,14,14,14,14],"font.align":["horizontal","horizontal","horizontal","horizontal","horizontal","horizontal","horizontal","horizontal","horizontal","horizontal","horizontal","horizontal","horizontal","horizontal","horizontal","horizontal","horizontal","horizontal"],"smooth.enabled":[true,true,true,true,true,true,true,true,true,true,true,true,true,true,true,true,true,true],"smooth.type":["cubicBezier","cubicBezier","cubicBezier","cubicBezier","cubicBezier","cubicBezier","cubicBezier","cubicBezier","cubicBezier","cubicBezier","cubicBezier","cubicBezier","cubicBezier","cubicBezier","cubicBezier","cubicBezier","cubicBezier","cubicBezier"],"smooth.roundness":[0.5,0.5,0.5,0.5,0.5,0.5,0.5,0.5,0.5,0.5,0.5,0.5,0.5,0.5,0.5,0.5,0.5,0.5]},"nodesToDataframe":true,"edgesToDataframe":true,"options":{"width":"100%","height":"100%","nodes":{"shape":"dot"},"manipulation":{"enabled":false},"layout":{"hierarchical":{"enabled":true,"direction":"UD"}},"interaction":{"dragNodes":false,"selectConnectedEdges":false,"tooltipDelay":500},"edges":{"scaling":{"label":{"enabled":false}}}},"groups":null,"width":"80%","height":"400px","idselection":{"enabled":false,"style":"width: 150px; height: 26px","useLabels":true},"byselection":{"enabled":false,"style":"width: 150px; height: 26px","multiple":false,"hideColor":"rgba(200,200,200,0.5)"},"main":{"text":"Decision tree of events that result in successful (green) 2017 internships","style":"font-family:Georgia, Times New Roman, Times, serif;font-weight:bold;font-size:20px;text-align:center;"},"submain":{"text":"","style":"font-family:Georgia, Times New Roman, Times, serif;font-size:12px;text-align:center;"},"footer":{"text":"","style":"font-family:Georgia, Times New Roman, Times, serif;font-size:12px;text-align:center;"},"background":"rgba(0, 0, 0, 0)","highlight":{"enabled":true,"hoverNearest":false,"degree":{"from":50000,"to":0},"algorithm":"hierarchical","hideColor":"rgba(200,200,200,0.5)","labelOnly":true},"collapse":{"enabled":true,"fit":true,"resetHighlight":true,"clusterOptions":{"fixed":true,"physics":false}},"tooltipStay":300,"tooltipStyle":"position: fixed;visibility:hidden;padding: 5px;\n                      white-space: nowrap;\n                      font-family: cursive;font-size:12px;font-color:purple;background-color: #E6E6E6;\n                      border-radius: 15px;","OnceEvents":{"stabilized":"function() { \n        this.setOptions({layout:{hierarchical:false}, physics:{solver:'barnesHut', enabled:true, stabilization : false}, nodes : {physics : false, fixed : true}});\n    }"},"legend":{"width":0.1,"useGroups":false,"position":"left","ncol":1,"stepX":100,"stepY":100,"zoom":true,"nodes":{"label":["Coding for Android with Kotlin - let’s build a simple app in 90 minutes","CV Clinics 1:1 feedback","Guide to 2017 Offers","Inside Guide to Summer of Tech","JavaScript Masterclass","Meet & Greet - WELLINGTON","Meet & Greet ProTips - Alumni Panel","NoEvents","SoT&Biz Guide to Offers","0","1"],"color":["#B4C7ED","#92D4B9","#C3CB9A","#8AD3D0","#98CFE2","#DAC49C","#A9D1A5","#F1B8C2","#EABDAC","#7D91B6","#B9828C"],"shape":["dot","dot","dot","dot","dot","dot","dot","dot","dot","square","square"],"size":[22,22,22,22,22,22,22,22,22,22,22],"Leaf":[0,0,0,0,0,0,0,0,0,1,1],"font.size":[16,16,16,16,16,16,16,16,16,16,16],"id":[10000,10001,10002,10003,10004,10005,10006,10007,10008,10009,10010]},"nodesToDataframe":true},"tree":{"updateShape":true,"shapeVar":"dot","shapeY":"square","colorVar":{"variable":["NoEvents","SoT&Biz Guide to Offers","Meet & Greet - WELLINGTON","Guide to 2017 Offers","Meet & Greet ProTips - Alumni Panel","CV Clinics 1:1 feedback","Inside Guide to Summer of Tech","JavaScript Masterclass","Coding for Android with Kotlin - let’s build a simple app in 90 minutes"],"color":["#F1B8C2","#EABDAC","#DAC49C","#C3CB9A","#A9D1A5","#92D4B9","#8AD3D0","#98CFE2","#B4C7ED"]},"colorY":{"colorY":{"modality":["0","1"],"color":["#7D91B6","#B9828C"]},"vardecidedClust":["0","0","0","0","0","0","0","0","1","0","0","0","0","0","0","1","1","1","1"]}},"export":{"type":"png","css":"float:right;-webkit-border-radius: 10;\n                  -moz-border-radius: 10;\n                  border-radius: 10px;\n                  font-family: Arial;\n                  color: #ffffff;\n                  font-size: 12px;\n                  background: #090a0a;\n                  padding: 4px 8px 4px 4px;\n                  text-decoration: none;","background":"#fff","name":"network.png","label":"Export as png"}},"evals":["OnceEvents.stabilized"],"jsHooks":[]}</script>
 </div>
 <div id="social-impact" class="section level2">
 <h2>Social Impact</h2>
 <p>Let’s take a look at the percentage breakdown of intern ethnicity and gender of successful interns.</p>
+<pre class="r"><code># Plot the intern ethnicity data 
+intern_eth &lt;- intern %&gt;% 
+      select(Intern.ethnicity) %&gt;% 
+      table() %&gt;% 
+      prop.table() %&gt;% 
+      data.frame()  
+intern_eth %&gt;% 
+      ggplot( aes(., 100*Freq)) +
+      geom_col(fill=&quot;purple&quot;) +
+      coord_flip() +
+      labs(title = &quot;Intern Breakdown by Intern Ethnicity\n&quot;, x = &quot;\nEthnicity&quot;, y = &quot;Percentage\n&quot;)+ 
+      guides(fill=FALSE)</code></pre>
 <p><img src="/portfolio/SoT_dataviz_files/figure-html/ethnicity%20freq-1.png" width="672" /></p>
 <p><strong>46</strong> % of interns were pakeha however there is a large <strong>23</strong> % of undisclosed ethnicities.</p>
+<pre class="r"><code># Plot the intern gender data as a frequency plot
+intern_gender &lt;- intern %&gt;% 
+      select(Intern.gender) %&gt;% 
+      table() %&gt;% 
+      prop.table() %&gt;% 
+      data.frame(stringsAsFactors = FALSE)  
+intern_gender %&gt;% 
+      ggplot( aes(., 100*Freq)) +
+      geom_col(fill=&quot;purple&quot;) +
+      coord_flip() +
+      labs(title = &quot;Intern Breakdown by Intern Gender\n&quot;, x = &quot;\nGender&quot;, y = &quot;Percentage\n&quot;)+ 
+      guides(fill=FALSE)</code></pre>
 <p><img src="/portfolio/SoT_dataviz_files/figure-html/gender%20freq-1.png" width="672" /></p>
 <p><strong>39</strong> % of interns were female and <strong>59</strong> % were male in 2017.</p>
 </div>
@@ -392,13 +598,13 @@ year
 <li>There is demographic data for Intern ethnicity and Intern gender on the interns, but not currently on the students creating a profile or attending the events.</li>
 <li>It could be useful to obtain the gender and ethnicity demographic data for applicants over time to view trends and proportions of those who apply versus those who are successful for the social impact.</li>
 <li>Also the numbers for under-represented Intern ethnicities are very small or undisclosed for December 2017.</li>
-<li>Regarding the large undisclosed number in the intern ethnicities, is the ethnicity an optional field to fill in? Scottish/Phillipino is a unique combination! Perhaps make this field mandatory and drop down, and add a “prefer not to say” option.</li>
-<li>Additionally for the gender option, perhaps add a “prefer not to say” option.</li>
 </ul>
 <ol start="4" style="list-style-type: decimal">
-<li><strong>Other Missing Data</strong></li>
+<li><strong>Missing Data</strong></li>
 </ol>
 <ul>
+<li>Regarding the large undisclosed number in the intern ethnicities, is the ethnicity an optional field to fill in? Scottish/Phillipino is a unique combination! Perhaps make this field mandatory and drop down, and add a “prefer not to say” option.</li>
+<li>Additionally for the gender option, perhaps add a “prefer not to say” option.</li>
 <li>It could be useful to have an employer ID / token in the intern data to map and plot this with the other data variables.</li>
 </ul>
 </div>
